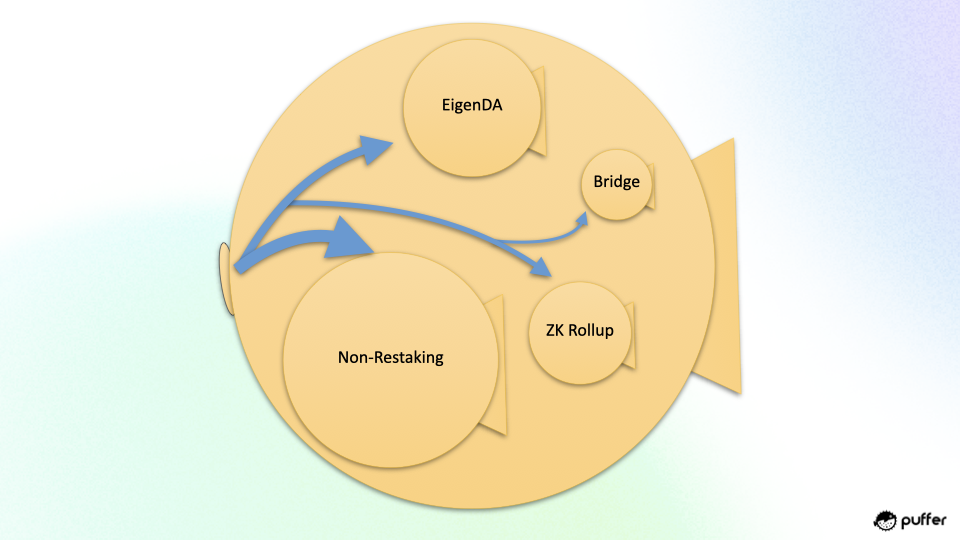
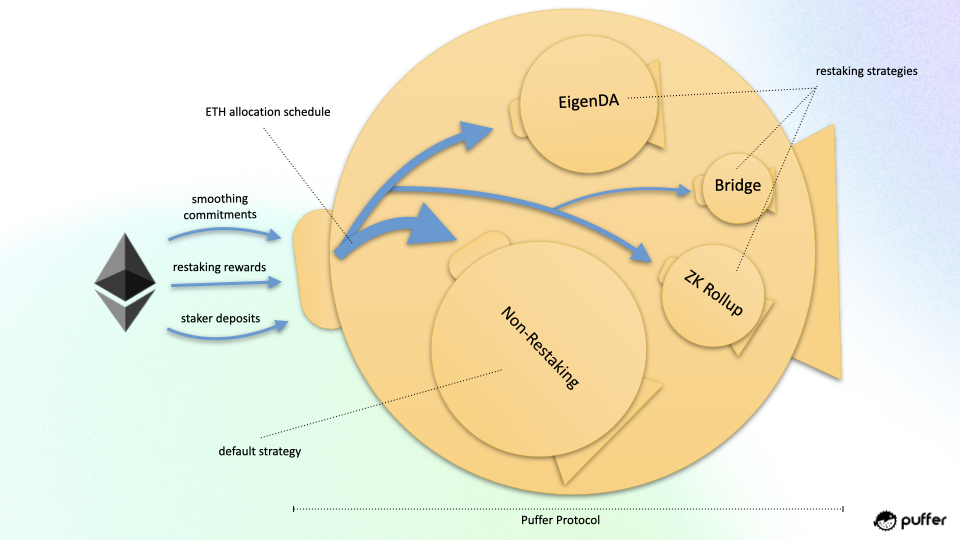
update strategies content

Changed region(s): [[0.0938, 0.0, 0.875, 0.9778], [0.8438, 0.1185, 0.9688, 0.1481], [0.4688, 0.5037, 0.5, 0.5333]]

diff --git a/docs/strategies.md b/docs/strategies.md
@@ -13,15 +13,36 @@ It is permissionless for NoOps to deploy validators to restaking strategies.
 ![PufferStrategy](/img/PufferStrategy.png)
 </div>
 
-### Strategy selection ♟
-At Puffer's core are different strategy contracts. Each is committed to an immutable set of restaking applications, but by default all strategies include Ethereum Proof of Stake validating. When strategies are operated, they produce staking and restaking rewards. 
+### Strategy selection 🤔
+The Puffer protocol is a collection of strategy contracts that each commit to restaking to operate an immutable set of AVSs. However, irrespective of their individual configurations, all strategies fundamentally include Ethereum Proof of Stake (PoS) validating. 
 
-NoOps are expected to deploy their validators to the strategies that align with their risk and reward preferences, such as **`{Ethereum PoS}, {Ethereum PoS, EigenDA}, {Ethereum PoS, EigenDA, ...}`**. It is permissionless to join strategies but the NoOp is required to pay a non-refundable [smoothing commitment](/protocol/smoothing-commitments) upon entering. In exchange, they are provisioned a 32 ETH validator, entitled to 100% of the staking rewards it generates, and earn commission on the restaking rewards generated by the strategy.
+When NoOps choose to operate within a given strategy, they actively participate in earning both staking and restaking rewards. The choices aren't limited, rather they span a range that matches the varying risk and reward preferences of NoOps. The strategies that operate more AVSs serve to earn more restaking rewards from the generated AVS fees but also increase the chances that they are penalized from violating an AVS's rules. For this reason, some NoOps will prefer the default **`{Non-Restaking}`** strategy that abstains from restaking and minimizes NoOp risk. The NoOps that seek higher rewards can opt-in to joining the **`{EigenDA}`** strategy or even broader combinations like **`{EigenDA, Bridge}`**. 
+
+### Joining a strategy 👈
+To hold strong to our alignment to Ethereum's ethos, it is **always permissionless** for NoOps to join a strategy and deploy an Ethereum validator. To join, NoOps pay a non-refundable [smoothing commitment](/protocol/smoothing-commitments), which represents a long-term commitment to run a validator in the strategy. In exchange, they are provisioned 32 ETH to deploy their validator to the strategy's [EigenPod](https://github.com/Layr-Labs/eigenlayer-contracts/blob/master/docs/core/EigenPodManager.md#eigenpodmanager) contract. The NoOp is now entitled to keep all of the staking rewards (consensus and execution) generated by their validator. The NoOps that joined restaking strategies will receive restaking commission after each [growth spurt](/protocol/growth-spurts).
 
 
 ### Restaking risks and mitigations 🚧
-Restaking increases staker and NoOp risk in the form of smart contract and slashing risk. However, it offers value to Ethereum's ecosystem and outsized rewards to stakers that can reshuffle the liquid staking market, which is on a dangerous path towards complete centralization. Puffer strives to mitigate this risk by taking a conservative approach as restaking matures. 
+The concept of restaking, while promising, introduces certain inherent risks to stakers and NoOps alike. These primarily revolve around the vulnerabilities of smart contracts and potential AVS slashing risks. Yet, it's hard to ignore the immense value restaking brings to Ethereum's ecosystem. Through the sustainable rewards that it can offer, restaking can reshape the dynamics of the liquid staking market, which is currently on a dangerous path towards complete centralization.
 
-NoOps that meet the prerequisites are eligible to operate the restaking services on behalf of the strategy. During Puffer's initial phase, governance will be used to select the NoOps that can operate restaking services. As Eigenlayer, AVSs, and Puffer’s anti-slashing mechanisms mature, reputable NoOps will have the option to operate restaking services without approval from governance.
+:::tip
+Puffer strives to mitigate these risks by taking a conservative approach as restaking matures. 
+:::
 
-As a result, each restaking strategy will contain validator-only NoOps and restaking NoOp[s] that operate the restaking services on behalf of the strategy. To compensate for the increased risk, the validator-only NoOps are awarded restaking commissions to incentivize participating in the strategy. This allows NoOps to earn more than they could in traditional liquid staking protocols. Risk-averse NoOps can choose the default Puffer strategy which will not engage in restaking.
+**Selecting NoOps for restaking**
+
+To ensure a safe transition into the world of restaking, Puffer will rely more heavily on governance to decide restaking qualifications during its nascent stages. During this time, only the reputable NoOps with excellent performance that have been selected through governance will be eligible to operate the AVSs on behalf of a given strategy. 
+
+As Eigenlayer, AVSs, and Puffer’s anti-slashing mechanisms mature, proven NoOps will have the option to operate AVSs without approval from governance.
+
+**Allocating ETH to strategies**
+
+The protocol will receive ETH from staker deposits, smoothing commitments, and restaking rewards. 
+- governance picks with goal of diversification
+- dont want too much to flow to untested AVSs
+- we use weighted round robin where schedule is picked through governance
+- heres example
+
+
+### Strategy participants 🙋♀
+Each restaking strategy will contain validator-only NoOps and restaking NoOp[s]. While the former solely focuses on Ethereum PoS validation, the latter operates the AVSs on behalf of the strategy by restaking the other NoOps' ETH, earning commission. Given the elevated risk, validator-only NoOps are compensated through restaking commissions. This allows NoOps to earn more than they could in traditional liquid staking protocols. Risk-averse NoOps can choose the default Puffer strategy which will not engage in restaking. 
